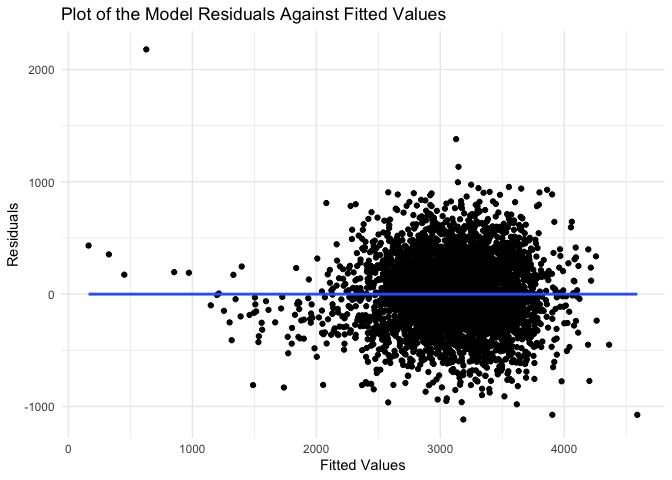
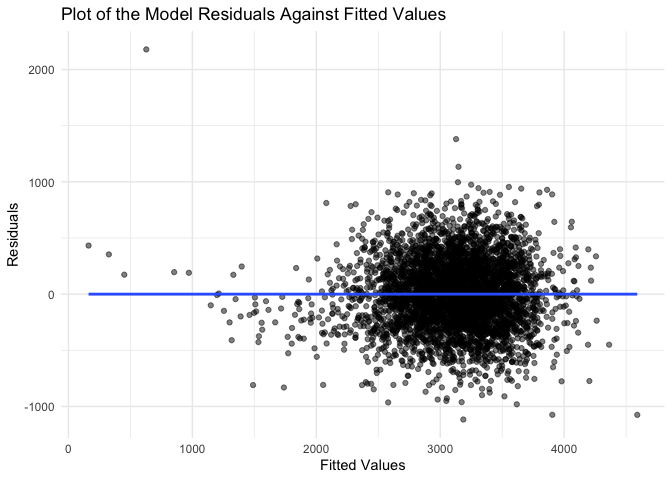
modify the comment

diff --git a/p8105_hw6_yx2638.md b/p8105_hw6_yx2638.md
@@ -5,11 +5,7 @@ Yifei Xu
 
 ### Problem 1
 
-To obtain a distribution for $\hat{r}^2$, we’ll follow basically the
-same procedure we used for regression coefficients: draw bootstrap
-samples; the a model to each; extract the value I’m concerned with; and
-summarize. Here, we’ll use `modelr::bootstrap` to draw the samples and
-`broom::glance` to produce `r.squared` values.
+First, import the dataset.
 
 ``` r
 weather_df = 
@@ -25,15 +21,11 @@ weather_df =
   select(name, id, everything())
 ```
 
-    ## Registered S3 method overwritten by 'hoardr':
-    ##   method           from
-    ##   print.cache_info httr
-
-    ## using cached file: ~/Library/Caches/R/noaa_ghcnd/USW00094728.dly
-
-    ## date created (size, mb): 2022-09-29 10:33:57 (8.401)
-
-    ## file min/max dates: 1869-01-01 / 2022-09-30
+To obtain a distribution for $\hat{r}^2$, we’ll follow basically the
+same procedure we used for regression coefficients: draw bootstrap
+samples; the a model to each; extract the value I’m concerned with; and
+summarize. Here, we’ll use `modelr::bootstrap` to draw the samples and
+`broom::glance` to produce `r.squared` values.
 
 ``` r
 weather_df %>% 
@@ -112,8 +104,6 @@ homicide_tidy = homicide %>%
          victim_sex = fct_relevel(victim_sex, "Female")) %>% 
   select(city_state, everything()) 
 ```
-
-    ## Warning in mask$eval_all_mutate(quo): NAs introduced by coercion
 
 Third, fit a logistic regression for the city of Baltimore, MD.
 
@@ -266,7 +256,10 @@ for males comparing to females is less than one. In addition, for some
 of those cities (OR\<1) such as New York and Baton Rouge, the odds ratio
 confidence interval does not include 1, which means the homicides in
 which the victim is male are significantly less likely to be resolved
-than those in which the victim is female.
+than those in which the victim is female. For those cities whose
+confidence interval includes 1, we cannot immediately conclude that
+there is a significant difference in solving homicides between male and
+female.
 
 ### Problem 3
 
@@ -305,7 +298,62 @@ sum(is.na(birthweight_tidy))
 
     ## [1] 0
 
-### Propose a Regression Model for Birthweight.
+``` r
+# Data summary
+skimr::skim(birthweight_tidy)
+```
+
+|                                                  |                  |
+|:-------------------------------------------------|:-----------------|
+| Name                                             | birthweight_tidy |
+| Number of rows                                   | 4342             |
+| Number of columns                                | 20               |
+| \_\_\_\_\_\_\_\_\_\_\_\_\_\_\_\_\_\_\_\_\_\_\_   |                  |
+| Column type frequency:                           |                  |
+| character                                        | 2                |
+| factor                                           | 2                |
+| numeric                                          | 16               |
+| \_\_\_\_\_\_\_\_\_\_\_\_\_\_\_\_\_\_\_\_\_\_\_\_ |                  |
+| Group variables                                  | None             |
+
+Data summary
+
+**Variable type: character**
+
+| skim_variable | n_missing | complete_rate | min | max | empty | n_unique | whitespace |
+|:--------------|----------:|--------------:|----:|----:|------:|---------:|-----------:|
+| babysex       |         0 |             1 |   4 |   6 |     0 |        2 |          0 |
+| malform       |         0 |             1 |   6 |   7 |     0 |        2 |          0 |
+
+**Variable type: factor**
+
+| skim_variable | n_missing | complete_rate | ordered | n_unique | top_counts                              |
+|:--------------|----------:|--------------:|:--------|---------:|:----------------------------------------|
+| frace         |         0 |             1 | FALSE   |        5 | Whi: 2123, Bla: 1911, Pue: 248, Asi: 46 |
+| mrace         |         0 |             1 | FALSE   |        4 | Whi: 2147, Bla: 1909, Pue: 243, Asi: 43 |
+
+**Variable type: numeric**
+
+| skim_variable | n_missing | complete_rate |    mean |     sd |     p0 |     p25 |     p50 |     p75 |   p100 | hist  |
+|:--------------|----------:|--------------:|--------:|-------:|-------:|--------:|--------:|--------:|-------:|:------|
+| bhead         |         0 |             1 |   33.65 |   1.62 |  21.00 |   33.00 |   34.00 |   35.00 |   41.0 | ▁▁▆▇▁ |
+| blength       |         0 |             1 |   49.75 |   2.72 |  20.00 |   48.00 |   50.00 |   51.00 |   63.0 | ▁▁▁▇▁ |
+| bwt           |         0 |             1 | 3114.40 | 512.15 | 595.00 | 2807.00 | 3132.50 | 3459.00 | 4791.0 | ▁▁▇▇▁ |
+| delwt         |         0 |             1 |  145.57 |  22.21 |  86.00 |  131.00 |  143.00 |  157.00 |  334.0 | ▅▇▁▁▁ |
+| fincome       |         0 |             1 |   44.11 |  25.98 |   0.00 |   25.00 |   35.00 |   65.00 |   96.0 | ▃▇▅▂▃ |
+| gaweeks       |         0 |             1 |   39.43 |   3.15 |  17.70 |   38.30 |   39.90 |   41.10 |   51.3 | ▁▁▂▇▁ |
+| menarche      |         0 |             1 |   12.51 |   1.48 |   0.00 |   12.00 |   12.00 |   13.00 |   19.0 | ▁▁▂▇▁ |
+| mheight       |         0 |             1 |   63.49 |   2.66 |  48.00 |   62.00 |   63.00 |   65.00 |   77.0 | ▁▁▇▂▁ |
+| momage        |         0 |             1 |   20.30 |   3.88 |  12.00 |   18.00 |   20.00 |   22.00 |   44.0 | ▅▇▂▁▁ |
+| parity        |         0 |             1 |    0.00 |   0.10 |   0.00 |    0.00 |    0.00 |    0.00 |    6.0 | ▇▁▁▁▁ |
+| pnumlbw       |         0 |             1 |    0.00 |   0.00 |   0.00 |    0.00 |    0.00 |    0.00 |    0.0 | ▁▁▇▁▁ |
+| pnumsga       |         0 |             1 |    0.00 |   0.00 |   0.00 |    0.00 |    0.00 |    0.00 |    0.0 | ▁▁▇▁▁ |
+| ppbmi         |         0 |             1 |   21.57 |   3.18 |  13.07 |   19.53 |   21.03 |   22.91 |   46.1 | ▃▇▁▁▁ |
+| ppwt          |         0 |             1 |  123.49 |  20.16 |  70.00 |  110.00 |  120.00 |  134.00 |  287.0 | ▅▇▁▁▁ |
+| smoken        |         0 |             1 |    4.15 |   7.41 |   0.00 |    0.00 |    0.00 |    5.00 |   60.0 | ▇▁▁▁▁ |
+| wtgain        |         0 |             1 |   22.08 |  10.94 | -46.00 |   15.00 |   22.00 |   28.00 |   89.0 | ▁▁▇▁▁ |
+
+### Propose a Regression Model for Birthweight
 
 First, I use stepwise method to select variables.
 
@@ -573,7 +621,10 @@ pairs(fit_var)
 From the plot above, we can observe that the a potential collinearity
 might exsit between `delwt` and `ppwt`, as well as `bhead` and
 `blength`. Therefore, I plan to drop `ppwt` and `blength` whose p-values
-are relatively larger in my model.
+are relatively larger.
+
+My final model is bwt \~ babysex + bhead + delwt + fincome + gaweeks +
+mheight + mrace + parity + smoken.
 
 ``` r
 # my model
@@ -620,7 +671,7 @@ birthweight_tidy %>%
   add_residuals(mult_fit_2) %>%
   add_predictions(mult_fit_2) %>%
   ggplot(aes(x = pred, y = resid)) +
-  geom_point() +
+  geom_point(alpha = 0.5) +
   geom_smooth(method = "lm", se = FALSE) +
   labs(title = "Plot of the Model Residuals Against Fitted Values",
        x = "Fitted Values", y = "Residuals") 
@@ -629,25 +680,81 @@ birthweight_tidy %>%
 ![](p8105_hw6_yx2638_files/figure-gfm/unnamed-chunk-14-1.png)<!-- -->
 
 From the plot of residuals against fitted values above, we can observe a
-cluster around 0, and some extreme values when prediction is below 1000.
-The constant variance assumption is generally satisfied.
+cluster around 0 when fitted values are between 2000 and 4000. However,
+when prediction is below 2000, residuals are not scattered around 0 and
+we can observe a curve. Therefore, the spread of residuals fail to be
+roughly equal at each level of fitted values and the constant variance
+assumption is slightly violated.
 
 ### Model Comparision
 
 ``` r
 # use length at birth and gestational age as predictors
 fit_com_1 = lm(bwt ~ blength + gaweeks, data = birthweight_tidy)
+summary(fit_com_1)
+```
 
+    ## 
+    ## Call:
+    ## lm(formula = bwt ~ blength + gaweeks, data = birthweight_tidy)
+    ## 
+    ## Residuals:
+    ##     Min      1Q  Median      3Q     Max 
+    ## -1709.6  -215.4   -11.4   208.2  4188.8 
+    ## 
+    ## Coefficients:
+    ##              Estimate Std. Error t value Pr(>|t|)    
+    ## (Intercept) -4347.667     97.958  -44.38   <2e-16 ***
+    ## blength       128.556      1.990   64.60   <2e-16 ***
+    ## gaweeks        27.047      1.718   15.74   <2e-16 ***
+    ## ---
+    ## Signif. codes:  0 '***' 0.001 '**' 0.01 '*' 0.05 '.' 0.1 ' ' 1
+    ## 
+    ## Residual standard error: 333.2 on 4339 degrees of freedom
+    ## Multiple R-squared:  0.5769, Adjusted R-squared:  0.5767 
+    ## F-statistic:  2958 on 2 and 4339 DF,  p-value: < 2.2e-16
+
+``` r
 # use head circumference, length, sex, and all interactions
 fit_com_2 = lm(bwt ~ bhead + blength + babysex + bhead*blength + bhead*babysex + blength*babysex + bhead*blength*babysex,
                data = birthweight_tidy)
+summary(fit_com_2)
+```
 
+    ## 
+    ## Call:
+    ## lm(formula = bwt ~ bhead + blength + babysex + bhead * blength + 
+    ##     bhead * babysex + blength * babysex + bhead * blength * babysex, 
+    ##     data = birthweight_tidy)
+    ## 
+    ## Residuals:
+    ##      Min       1Q   Median       3Q      Max 
+    ## -1132.99  -190.42   -10.33   178.63  2617.96 
+    ## 
+    ## Coefficients:
+    ##                             Estimate Std. Error t value Pr(>|t|)    
+    ## (Intercept)                -801.9487  1102.3077  -0.728 0.466948    
+    ## bhead                       -16.5975    34.0916  -0.487 0.626388    
+    ## blength                     -21.6460    23.3720  -0.926 0.354421    
+    ## babysexmale               -6374.8684  1677.7669  -3.800 0.000147 ***
+    ## bhead:blength                 3.3244     0.7126   4.666 3.17e-06 ***
+    ## bhead:babysexmale           198.3932    51.0917   3.883 0.000105 ***
+    ## blength:babysexmale         123.7729    35.1185   3.524 0.000429 ***
+    ## bhead:blength:babysexmale    -3.8781     1.0566  -3.670 0.000245 ***
+    ## ---
+    ## Signif. codes:  0 '***' 0.001 '**' 0.01 '*' 0.05 '.' 0.1 ' ' 1
+    ## 
+    ## Residual standard error: 287.7 on 4334 degrees of freedom
+    ## Multiple R-squared:  0.6849, Adjusted R-squared:  0.6844 
+    ## F-statistic:  1346 on 7 and 4334 DF,  p-value: < 2.2e-16
+
+``` r
 # cross-validation 
 cv_df = 
   crossv_mc(birthweight_tidy, 100) %>% 
     mutate(
-        train = map(train, as.tibble),
-        test = map(test,as.tibble)
+        train = map(train, as_tibble),
+        test = map(test,as_tibble)
     )  %>%
   mutate(
     model_fit1  = map(train, ~lm(bwt ~ babysex + bhead + delwt + fincome + gaweeks + mheight + mrace + parity + smoken,
@@ -678,6 +785,7 @@ cv_df %>%
 ![](p8105_hw6_yx2638_files/figure-gfm/unnamed-chunk-15-1.png)<!-- -->
 
 From RMSE distribution plot above, we can observe that the test model 2
-has the lowest RMSE, followed by my model and test model 1. Therefore,
-test model 1 is potentially the best model among these three models,
-which need to be further analyzed.
+(including interactions) has the lowest RMSE, representing a relatively
+better predictive ability, followed by my model and test model 1 (main
+effects only). Therefore, test model 2 is potentially the best model
+among these three models, which need to be further analyzed.
